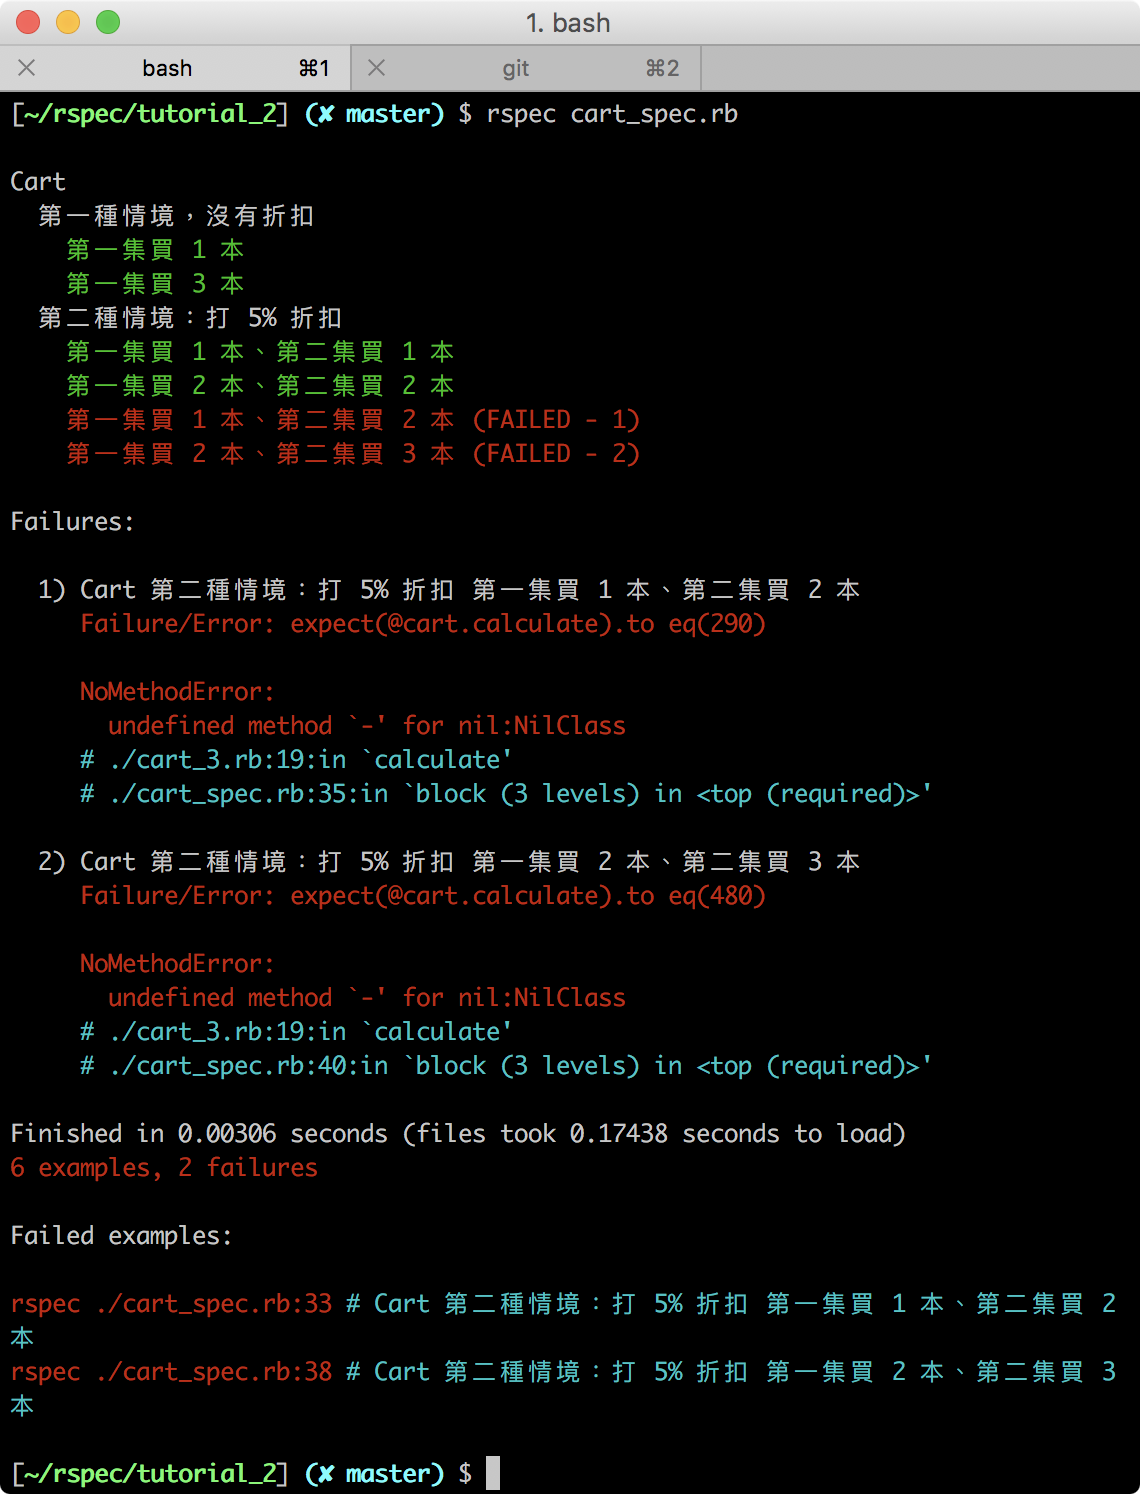
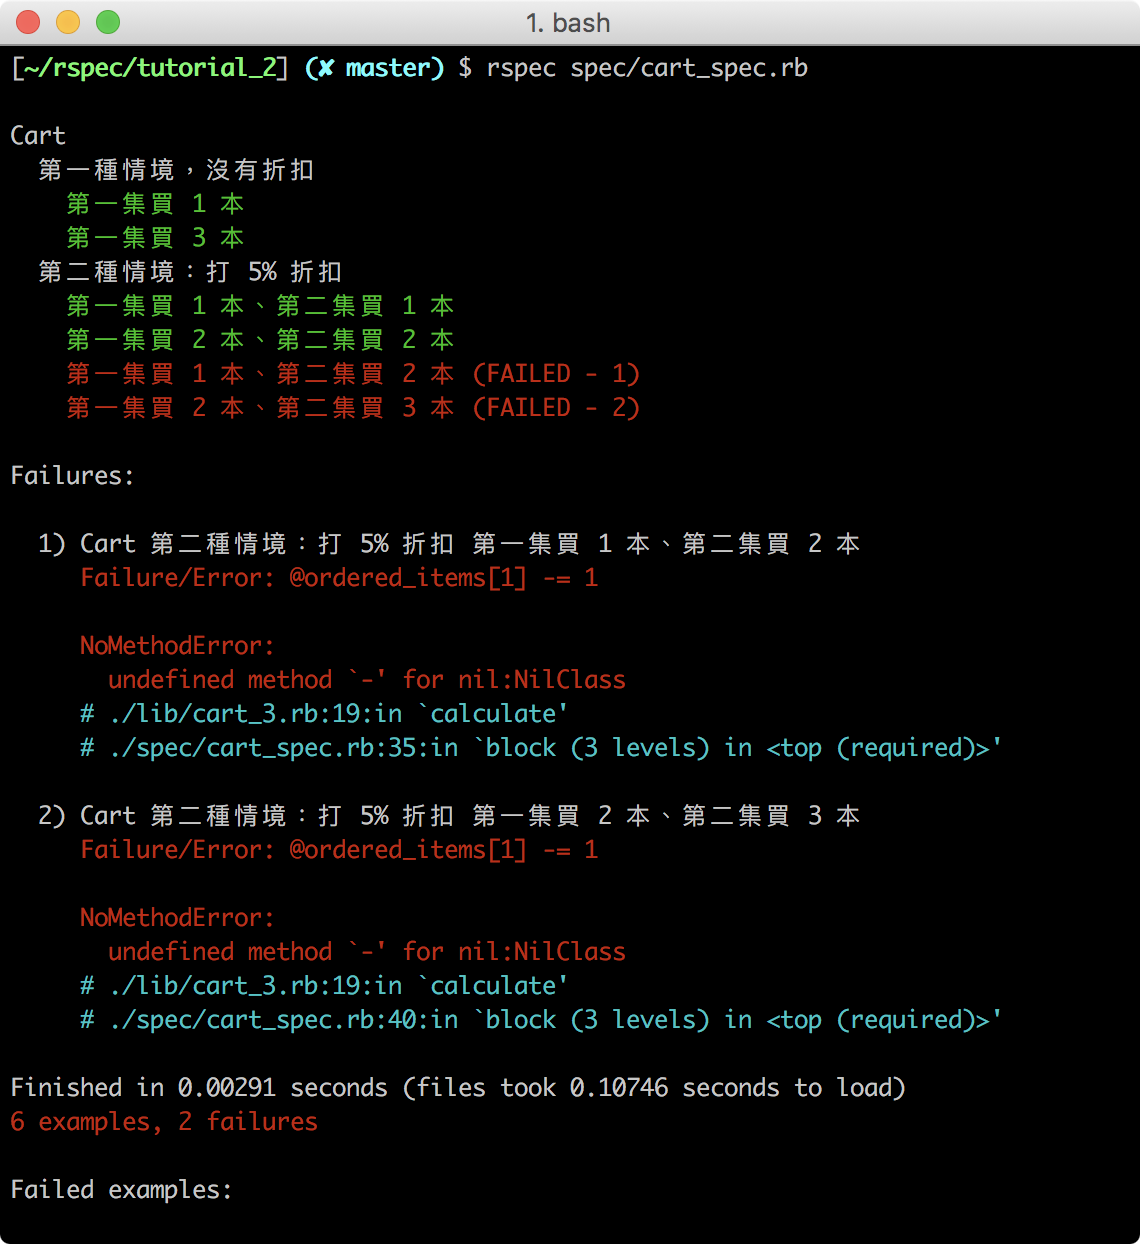
change rspec command and image to match file structure

diff --git a/01-Testing with RSpec/Testing with RSpec 05 - RSpec 練習（2）：波特賣書.md b/01-Testing with RSpec/Testing with RSpec 05 - RSpec 練習（2）：波特賣書.md
@@ -178,7 +178,7 @@ _Path: lib/cart.rb_
 
 #### 進行測試
 
-請執行 `rspec cart_spec.rb` 指令測試你的程式碼，確認結果為綠色。
+請執行 `rspec spec/cart_spec.rb` 指令測試你的程式碼，確認結果為綠色。
 
 ![1](images/0105-1.png)
 
@@ -265,7 +265,7 @@ _Path: lib/cart.rb_
 
 #### 進行測試
 
-請執行 `rspec cart_spec.rb` 指令測試你的程式碼，確認結果全為綠色。
+請執行 `rspec spec/cart_spec.rb` 指令測試你的程式碼，確認結果全為綠色。
 
  ![Image](images/0105-2.png)
 
@@ -316,9 +316,9 @@ _Path: lib/cart.rb_
 
 #### 進行測試
 
-請執行 `rspec cart_spec.rb` 指令測試你的程式碼，確認結果全為綠色。
+請執行 `rspec spec/cart_spec.rb` 指令測試你的程式碼，確認結果全為綠色。
 
-  ![Image](images/0105-3.png)
+![Image](images/0105-3.png)
 
 你已經通過了情境二的第二個測試案例，目前還有兩個測試案例的功能尚未完成，讓我們繼續完成程式功能。
 
@@ -366,7 +366,7 @@ _Path: lib/cart.rb_
 
 #### 進行測試
 
-請執行 `rspec cart_spec.rb` 指令測試你的程式碼：
+請執行 `rspec spec/cart_spec.rb` 指令測試你的程式碼：
 
 ![Image](images/0105-4.png)
 
@@ -406,7 +406,7 @@ class Cart
 end
 ```
 
-完成後，請執行 `rspec cart_spec.rb` 指令測試重構後的程式碼，確保在你重構之後所有測試案例還是維持在綠色！
+完成後，請執行 `rspec spec/cart_spec.rb` 指令測試重構後的程式碼，確保在你重構之後所有測試案例還是維持在綠色！
 
 ### 小結
 
